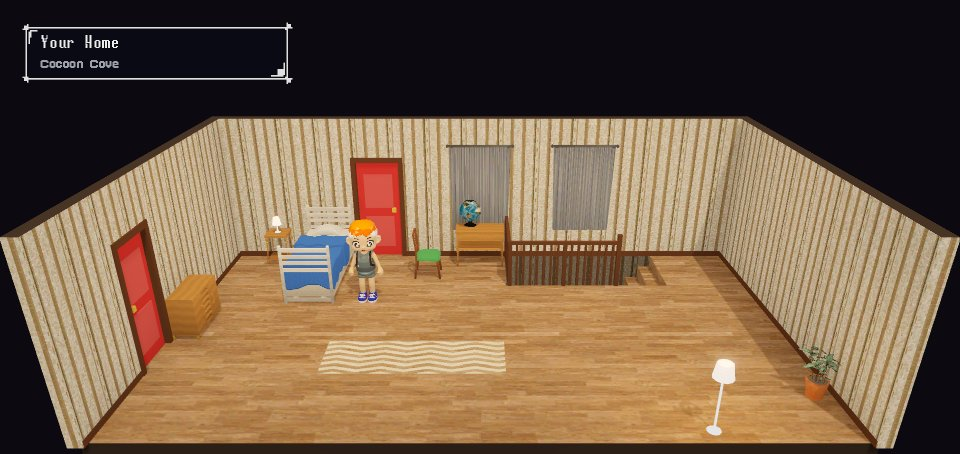
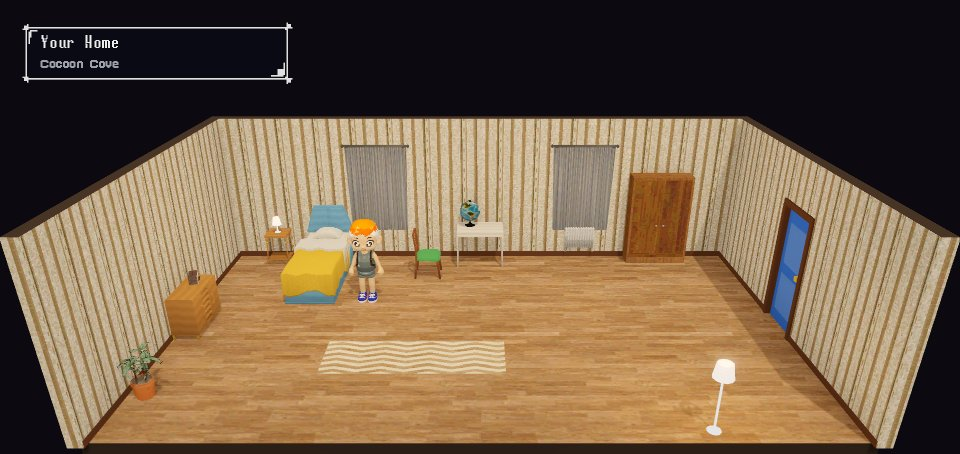
Stairs come up into a landing; no windows on walls with inner doors
Upstairs, going up the stairs now always brings you onto a landing first, a hallway half a room deep, with doors
off it into that floor's rooms:
- Your home: the living room's stairs come up at the right end of the landing; along its back wall are doors to
  your bedroom (where you wake on the first morning), the bathroom (locked) and Mom's room, which is now a real
  room with her double bed. Only your own bed offers a nap; Mom's says to leave it made.
- The townsfolk's house with an upstairs: the stairs come up onto a landing with the bedroom and a locked
  bathroom off it.
- The big dungeons (temples, hideout, Gearhart Tower, Sky Tower, cathedral and crypt) keep their layouts.

A stairwell down is only as deep as the floor in front of it hides, so on a shallow landing it no longer shows
under the floor's front edge.

Windows: a wall with a door to another room (blue or red) has no windows, and every room has windows in at least
one wall (the front door's may have them). The shops' windows move from the back wall, with the staff door, to
the front-door wall; the homes' to the left wall; the arena's ring gains windows; the Sky Tower lobby's move to
its side walls. tools/check_maps.gd checks both rules.

README: the interiors paragraph and room templates note describe the landings and the window rule; the bedroom
screenshot is retaken.

diff --git a/README.md b/README.md
@@ -277,10 +277,10 @@ obstacles (driftwood, sand drifts, boulders, dust storms, ravines) still turn up
   <img src="docs/screenshots/call.jpg" width="640" alt="Calling Dad from the phone at home: that's how you save."><br><sub>Calling Dad from the phone at home: that's how you save.</sub>
 
 - **Shops** differ per town. Small towns have a few; cities have many. Each building has a wordless sign fixed flat to its front above the door, showing what it is (houses have none).
-- **Inside**, every house and shop is a compact room seen whole, like a stage set: no front wall, the camera holding still, and the front door in a side wall. Blue doors open (a door to another room loads that room on its own); red ones are locked. Homes have no kitchens to wander into: many townsfolk live in studios, bed and sofa in one room, while others have a bedroom through a door or up a flight of stairs. Your own home has the living room downstairs, with Mom and the phone, and your bedroom upstairs. The big dungeons (temples, the hideout, Gearhart Tower, the Sky Tower and the cathedral) keep their own layouts, open at the front too.
+- **Inside**, every house and shop is a compact room seen whole, like a stage set: no front wall, the camera holding still, and the front door in a side wall. Blue doors open (a door to another room loads that room on its own); red ones are locked. Every room has windows in at least one wall, never in a wall with a door to another room (the front door may share theirs). Homes have no kitchens to wander into: many townsfolk live in studios, bed and sofa in one room, while others have a bedroom through a door or up a flight of stairs. Stairs always come up into a landing, a hallway half a room deep, with the floor's rooms through doors off it. Your own home has the living room downstairs, with Mom and the phone; upstairs, your bedroom (where you wake up), Mom's room and the bathroom open off the landing. The big dungeons (temples, the hideout, Gearhart Tower, the Sky Tower and the cathedral) keep their own layouts, open at the front too.
   - Everyone who works in a shop stands behind a counter and wears their shop's uniform: a polo in the shop's colour with a contrasting collar and cuffs, short sleeves, a name badge and usually a visor (the sensei and the fortune teller wear headbands, the music hall's usher a pillbox hat).
 
-  <img src="docs/screenshots/bedroom.jpg" width="640" alt="Upstairs at home: your bedroom, and the stairs down to the living room."><br><sub>Upstairs at home: your bedroom, and the stairs down to the living room.</sub>
+  <img src="docs/screenshots/bedroom.jpg" width="640" alt="Upstairs at home: your bedroom, where you wake up. The blue door leads out to the landing."><br><sub>Upstairs at home: your bedroom, where you wake up. The blue door leads out to the landing.</sub>
 
 - **Locked doors**: about a third of houses are locked, and so is Gravenmoor Cathedral until its Legion guard is beaten. Locked doors are crimson with iron straps and a brass padlock in every town. Try one and you knock (knock-knock-knock), and whoever is inside shouts something silly through it.
 
@@ -491,7 +491,7 @@ The maps are plain text in `scripts/data/maps/`. Each string is one row of tiles
   doorstep and everyone standing about on level ground, and keep tall things off high ground just south of a road.
   `"cliffs": "walls"` draws a town's cliffs as stone retaining walls. Both checkers below know the levels.
 - **Shards** use `*`.
-- **Room templates**: in `interior_maps.gd`, `>` and `<` are stairs to the next and previous floor, `K` is a kennel pen and `@` a red phone. Most rooms are `stage` rooms: one compact room seen whole like a stage set (no front wall, the camera still), the front door (`D`, blue, with a window over it) in a side wall. A building of several rooms (`SHOP_ROOMS`, `HOUSES`) joins them with doors in their walls (`doors`: a symbol for each, and the room it leads to), each room loaded on its own; locked doors (`L`, red) can say what's behind them (`locked`).
+- **Room templates**: in `interior_maps.gd`, `>` and `<` are stairs to the next and previous floor, `K` is a kennel pen and `@` a red phone. Most rooms are `stage` rooms: one compact room seen whole like a stage set (no front wall, the camera still), the front door (`D`, blue, with a window over it) in a side wall. A building of several rooms (`SHOP_ROOMS`, `HOUSES`) joins them with doors in their walls (`doors`: a symbol for each, and the room it leads to), each room loaded on its own; locked doors (`L`, red) can say what's behind them (`locked`). Stairs (`>`) lead to the next room in the set, which is always a landing (`home_hall`, `house_up_hall`: two tiles deep, the stairwell `<<<` at one end and the doors to that floor's rooms off it). `tools/check_maps.gd` also checks the windows: none in a wall with a door to another room, and at least one wall with them in every stage room.
 
 - **Towns** follow one plan: a main row of buildings with their backs to the tree line, a boulevard along their doors that the town's entrances lead straight onto, and a plaza with the statue in the middle. Shops sit around the plaza and houses at the ends. Big towns have a second row well to the south, behind deep back gardens (six rows behind two-storey shops).
   - The camera looks down from the south, so a roof, a tower or a tree hides whatever is just north of it. `python tools/town_check.py` traces the camera's line of sight to every walkable tile (with each building's real roof shape) and reports any tile where the path or the player would be hidden, plus any door, exit or person you can't reach.
